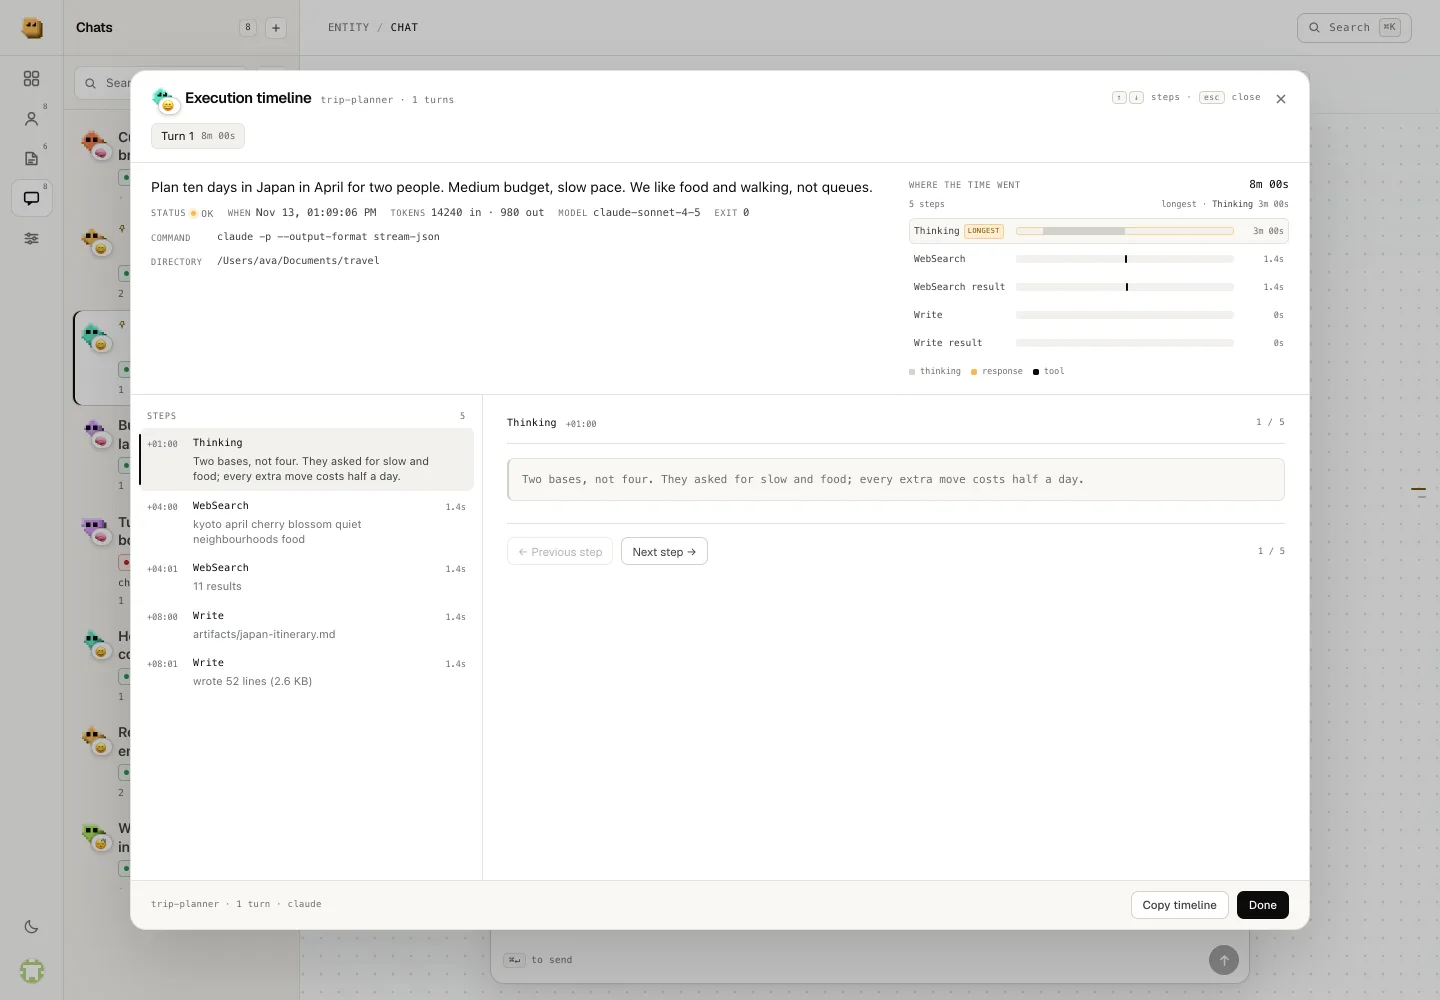
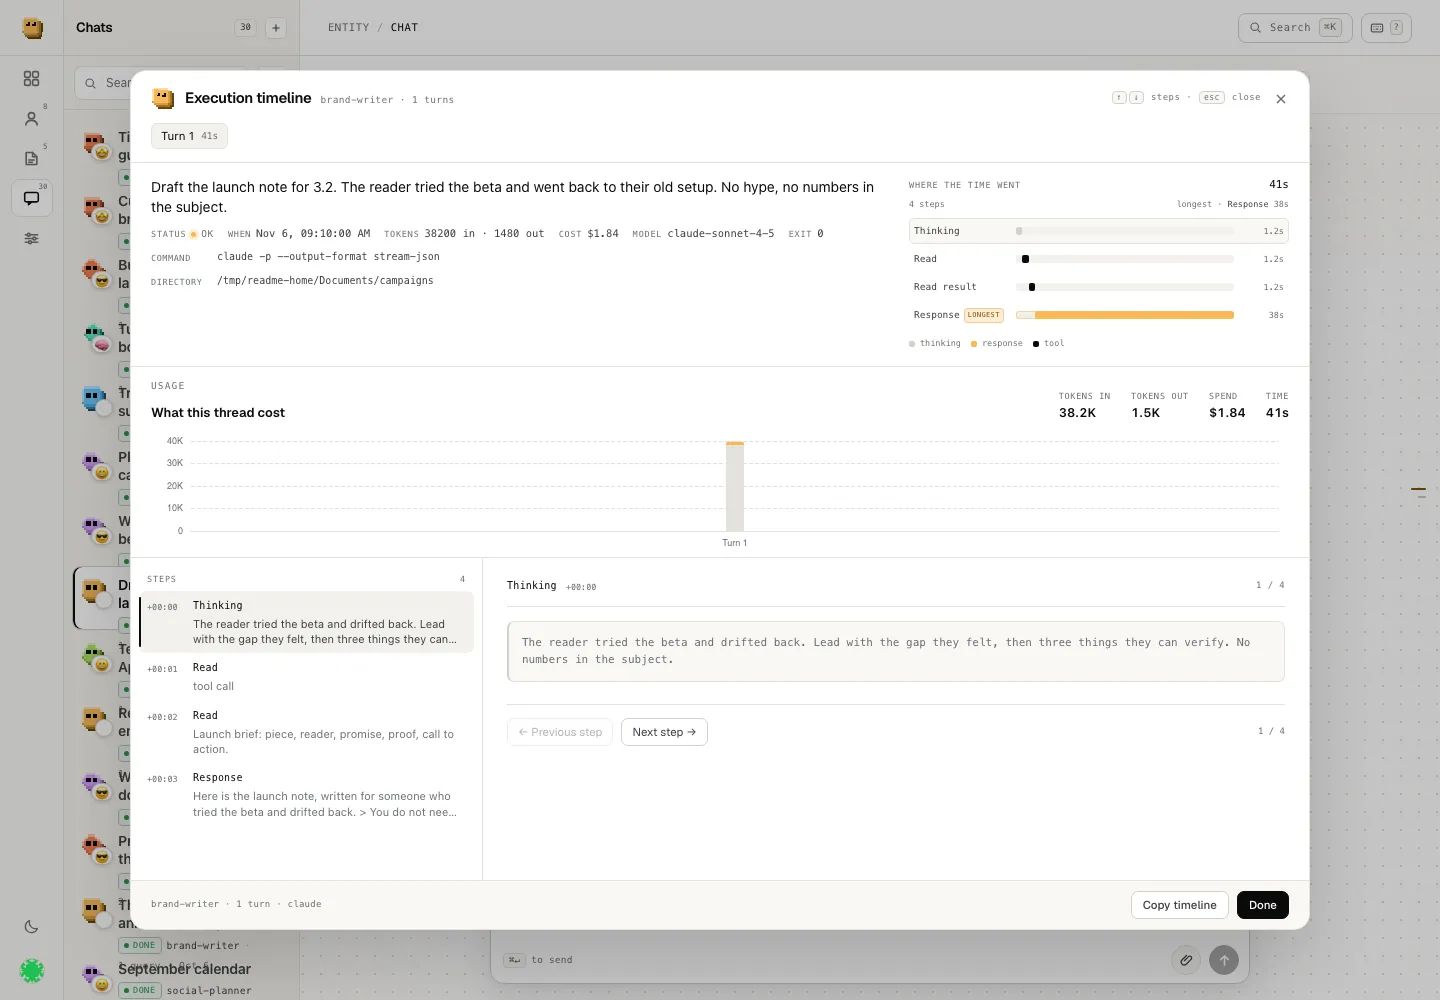
docs(readme): document folder threads, learning and usage
The feature table gains three rows with light-mode WebP captures of the new
surfaces: a thread started in a project folder (its `/project:` skill and
`@file:` scope), a Learning review with the side-by-side diff, and the year's
spend and activity charts.

The chat, entity, timeline and hero captures are refreshed to show follow-ups,
the entity calendar, the turn's token cost and the overview as it looks now.
The body explains how a base directory resolves skills and files, how Learning
proposes without writing, and where spend comes from — plus the two new
ceilings: the folder is local-only and a price is never invented.

diff --git a/README.md b/README.md
@@ -17,7 +17,7 @@
 </p>
 
 <p align="center">
-  <img src="docs/assets/readme-hero.webp" alt="A studio workspace with assistants for writing, research, travel, budgets and code, and the conversations they ran" width="1000" />
+  <img src="docs/assets/readme-hero.webp" alt="A studio workspace overview: eight assistants, the year's spend chart and a calendar of the days they worked" width="1000" />
 </p>
 
 ## Features
@@ -30,13 +30,32 @@
 
 Ask in plain language. Long turns fold into steps you can open: what the assistant
 thought, what it ran, what came back. Every answer can be retried, copied, shared
-with a link, or saved to the workspace as a file.
+with a link, or saved to the workspace as a file — and a file the turn wrote shows
+up on the answer without a reload. A finished reply suggests three follow-ups; one
+click sends one.
 
 [Where it lives →](electron/chat-store.cjs)
 
 </td>
 <td width="50%">
-  <img src="docs/assets/readme-features/chat.webp" alt="A ten-day Japan itinerary answer with an attached file, a collapsed process fold and the composer" width="100%" />
+  <img src="docs/assets/readme-features/chat.webp" alt="A launch note answer with an attached brief, a collapsed process fold and three suggested follow-ups" width="100%" />
+</td>
+</tr>
+<tr>
+<td width="50%" valign="middle">
+
+### Start in the folder the work lives in
+
+A thread can name a project folder: the harness starts there, `/` lists that
+folder's `.claude/`, `.agents/` and `.pi/` skills as `/project:…`, and `@file:`
+browses the project instead of asking you to know the path. Optional, per
+thread, and only on this machine.
+
+[Base directories →](#a-folder-per-thread)
+
+</td>
+<td width="50%">
+  <img src="docs/assets/readme-features/folder.webp" alt="The composer for a thread started in a project folder, with the / menu listing the project's own review skill first" width="100%" />
 </td>
 </tr>
 <tr>
@@ -45,14 +64,32 @@ with a link, or saved to the workspace as a file.
 ### An assistant is a file you can read
 
 A little configuration at the top, its instructions below. Edit it in place, give
-it a face, and watch conversations turn into levels. It stays a plain `.md` file
-you can open in any editor — or put in a folder and keep forever.
+it a face, and watch conversations turn into levels and a calendar of the days it
+worked. It stays a plain `.md` file you can open in any editor — or put in a
+folder and keep forever.
 
 [Entity file →](#one-file-is-the-entity)
 
 </td>
 <td width="50%">
-  <img src="docs/assets/readme-features/entity.webp" alt="An entity page with its description, level bar, conversations, instructions editor and facts panel" width="100%" />
+  <img src="docs/assets/readme-features/entity.webp" alt="An entity page with its header, activity calendar, conversations, instructions editor and facts panel" width="100%" />
+</td>
+</tr>
+<tr>
+<td width="50%" valign="middle">
+
+### The entity learns from its own conversations
+
+Learning reads the last ten threads and proposes a sharper brief: what people
+keep asking for, what it keeps missing. You get a side-by-side diff and an
+editor; reviewing never touches the file, and Apply is a separate, deliberate
+click.
+
+[Learning →](#learning-from-conversations)
+
+</td>
+<td width="50%">
+  <img src="docs/assets/readme-features/learning.webp" alt="A Learning review with a summary, the current and proposed instructions side by side and the changed lines highlighted" width="100%" />
 </td>
 </tr>
 <tr>
@@ -60,15 +97,31 @@ you can open in any editor — or put in a folder and keep forever.
 
 ### See how an answer was made
 
-Every turn keeps what it ran, where, with which model, and how long each step
-took. Click a step to read the thought or the tool output behind it — no guessing
-and no black box.
+Every turn keeps what it ran, where, with which model, how long each step took
+and what the tokens cost. Click a step to read the thought or the tool output
+behind it — no guessing and no black box.
 
 [Where it lives →](src/components/TimelineDialog.vue)
 
 </td>
 <td width="50%">
-  <img src="docs/assets/readme-features/timeline.webp" alt="Execution timeline showing where the time went and one expanded step" width="100%" />
+  <img src="docs/assets/readme-features/timeline.webp" alt="Execution timeline showing where the time went, the turn's token usage and spend, and one expanded step" width="100%" />
+</td>
+</tr>
+<tr>
+<td width="50%" valign="middle">
+
+### The year, in two charts
+
+Spend and activity are folded from the turns themselves — cost and tokens per
+day, and one square per day that stays grey when nothing ran. The workspace gets
+the year; each entity gets its own calendar and bill on its page.
+
+[Usage →](#usage-and-activity)
+
+</td>
+<td width="50%">
+  <img src="docs/assets/readme-features/usage.webp" alt="The overview's spend chart and a calendar heatmap of active days" width="100%" />
 </td>
 </tr>
 <tr>
@@ -338,6 +391,24 @@ Nothing is seeded behind your back: a new workspace is empty, and the sample rol
 are a checkbox in the create form — each one listed so you choose which files to
 write. A fresh entity can also start from one of those roles, or from a blank brief.
 
+### Learning from conversations
+
+**Learning** on an entity page reads the ten most recent threads and asks the
+entity's own harness for a complete replacement brief. The review is a proposal,
+not a write:
+
+- the dialog shows the current file and the proposal **side by side**, line by
+  line, with only the changed lines marked;
+- **Edit proposed** turns the proposal into a textarea, so a good suggestion can
+  be made exact before it lands;
+- **Apply to instructions** writes the body through the same writer the editor
+  uses, keeping the frontmatter; **Cancel** leaves the file untouched;
+- the source threads are listed, so it is clear which conversations produced the
+  rules.
+
+Reviewing costs one run of the entity's harness. If the harness cannot answer,
+the dialog says so and nothing changes.
+
 ## Chat transcripts
 
 Each turn is a real harness process in JSONL stream mode
@@ -354,6 +425,14 @@ stays on the assistant message, so there is no second copy anywhere.
   second copy of it, and keeps the files it already saved.
 - Every message has copy and share; share is a deep link (`?thread=…&msg=…`) that
   opens the thread and scrolls to the row.
+- The newest reply offers three **follow-ups** — short actions with a full prompt
+  behind them. One click sends it down the same path as typed text; a refresh
+  asks for another set.
+- A screenshot or document a turn saved is attached to that turn as soon as it
+  finishes, so it appears without reloading the thread.
+- Asking to delete an entity in a thread opens a confirmation first: what will be
+  removed, how many conversations it owns, and what closing them means. The
+  harness never sees the request.
 - A thread records the account that created it. List, read, rename, send, cancel and
   remove only see that account's threads, even in a shared workspace.
 - The right-edge outline draws one tick per message and opens a jump card.
@@ -379,17 +458,37 @@ panel button in the chat header opens a drawer with that residue, newest first:
 
 [Where it lives →](electron/thread-metadata.cjs)
 
+### Usage and activity
+
+Every turn stores its execution: model, duration, token counts and, when the
+harness reports it, a price. The overview folds those records into the current
+year; an entity page folds the same set for one entity.
+
+- **Spend** — one bar per day with a priced turn, plus the year's total spend and
+  tokens. A day with no price is not invented into one.
+- **Activity** — one square per day, darker for more turns; a day with nothing
+  stays grey rather than taking the faintest warm step.
+- The source is the conversation itself, not a second ledger: deleting a thread
+  removes its cost, and a harness that reports no price contributes turns and
+  tokens but no dollars.
+- A single turn's timeline asks the same records and shows tokens in/out, time
+  and spend beside its steps.
+
+[Where it lives →](electron/usage.cjs)
+
 ### Skills are called, not just declared
 
 | reference | resolves to |
 | --- | --- |
+| `/project:<name>` | a skill in the thread's base directory — `.claude/skills`, `.agents/skills`, … |
 | `/workspace:<name>` | `<ws>/skills/<name>` — attached to this workspace |
 | `/<harness>:<name>` | that harness's own library, e.g. `~/.claude/skills/<name>` |
-| `/<name>` | any library on this machine, when exactly one has that name |
+| `/<name>` | any library this thread can reach, when exactly one has that name |
 
 The `/` menu inserts the qualified form. A bare `/name` is accepted only when one
 library has it; two libraries with the same name is an error listing both forms,
-not a guess. The backend resolves the reference to an absolute path **on the
+not a guess. In a thread with a base directory, project skills come first, then
+the workspace's, then the machine's. The backend resolves the reference to an absolute path **on the
 machine the thread is pinned to** and sends `use this skill /abs/path` above the
 prompt. The reference itself is not sent, and a reference this app owns that does
 not resolve stops the message.
@@ -412,6 +511,24 @@ A mention owns the text after it up to the next `@`, which is how a query can
 contain spaces without quotes. While one word is being typed the composer lists
 matches ten at a time, with **Show 10 more** to page the source. A **name** that
 does not exist stops the message; a **search** with no hits only adds a note.
+
+### A folder per thread
+
+**New thread → Start from a folder** pins an optional project directory to the
+conversation. It hides behind a toggle because most threads do not need one.
+
+- The harness starts in that folder instead of the entity's `dir`.
+- `/` lists the folder's own skills first — `.claude/`, `.agents/`, `.pi/`,
+  `.opencode/`, `.codex/`, `.gemini/`, `.antigravity/` and a plain `skills/` — as
+  `/project:<name>`. A bare name resolves project first.
+- `@file:` lists files under the folder (bounded walk, VCS and build folders
+  skipped) and resolves relative paths from it when the turn is sent.
+- The composer shows the folder beside the harness, and the thread keeps it after
+  a reload.
+- Absolute, existing directories only, and only on this machine — a remote thread
+  cannot read this disk, so the field is hidden there.
+
+[Where it lives →](electron/chat-store.cjs)
 
 ## Voice
 
@@ -736,6 +853,12 @@ per feature. Keep `contextIsolation: true`, `nodeIntegration: false` and
   capability facts and run logs are deliberately left out.
 - `machine-facts.json` is local to this copy of the workspace: host aliases and
   installed CLIs describe this user's fleet, not a shared project file.
+- **A base directory is local-only.** A thread pinned to a fleet host cannot read
+  this machine's disk, so the field is hidden there and `/project:` is refused
+  rather than resolved to a path the far side cannot see.
+- **Spend is only what the harness reports.** A turn without a price still counts
+  as a turn and as tokens, but contributes nothing to the dollar total; the charts
+  never estimate a price.
 - **Voice input in the desktop app needs a local transcriber.** The shell has no
   speech-recognition service, so voice records with the microphone and runs a
   whisper CLI you installed plus a model you provided. Without one the dialog
